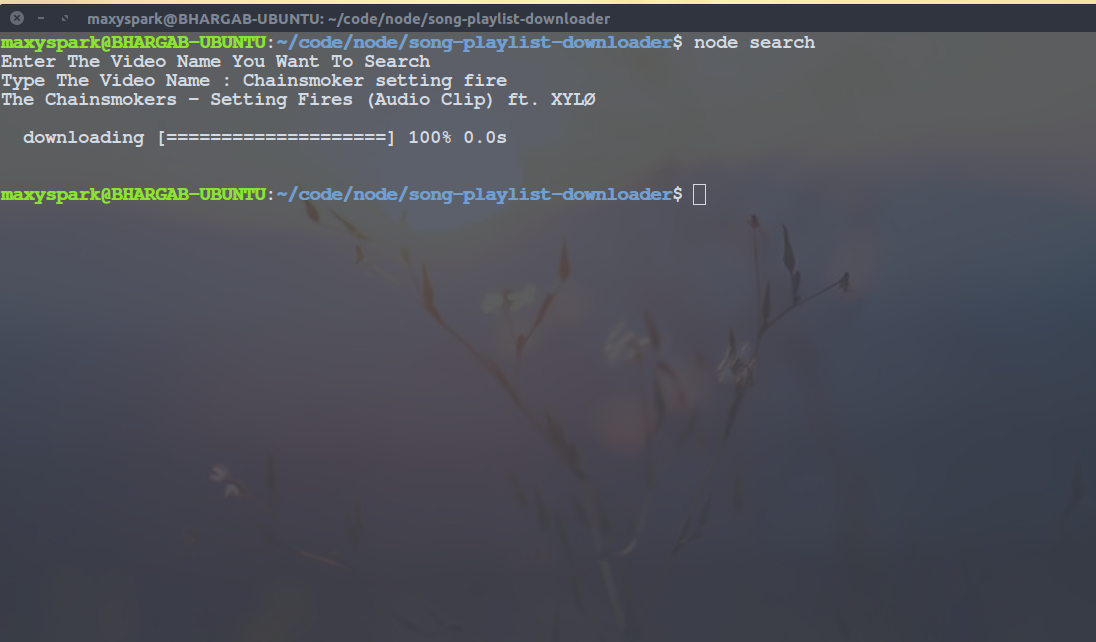
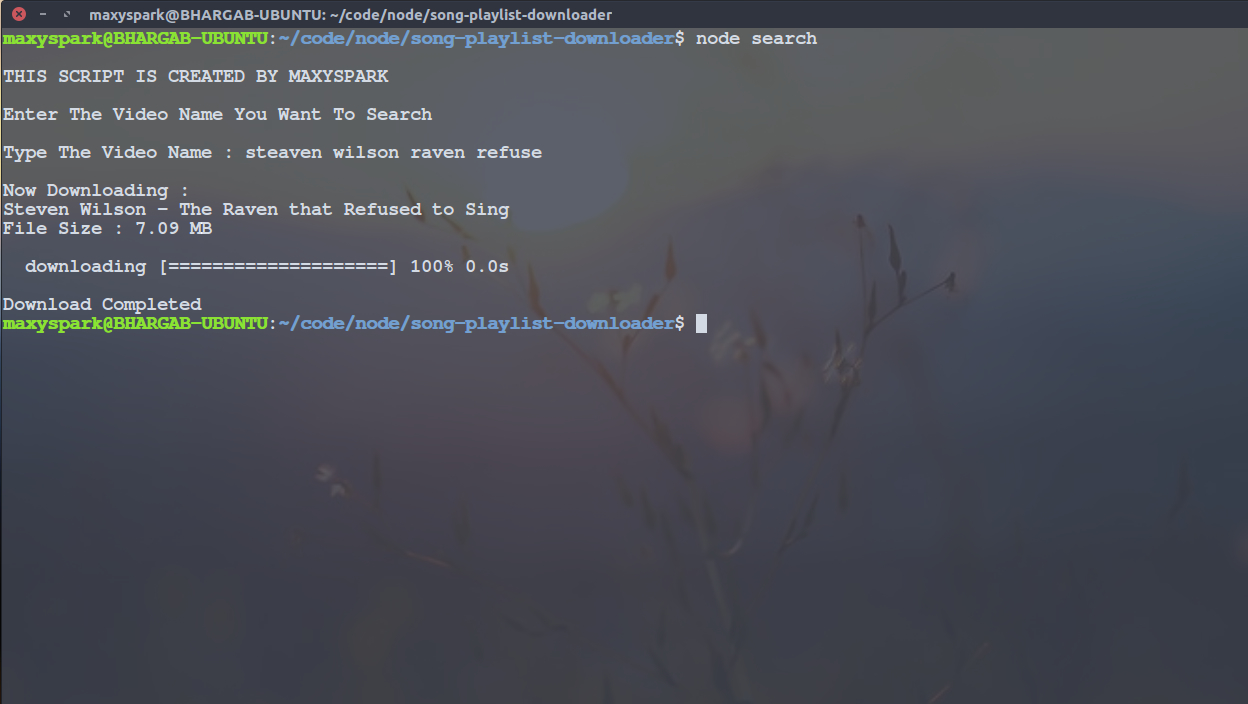
added file size

Changed region(s): [[0.0, 0.0, 1.0, 0.3427], [0.0, 0.3738, 0.5894, 0.4673]]

diff --git a/search.js b/search.js
@@ -5,7 +5,7 @@ var cheerio = require('cheerio');
 var fs = require('fs');
 var readlineSync = require('readline-sync');
 var searchItem,searchUrl;
-console.log("Enter The Video Name You Want To Search");
+console.log("Enter The Video Name You Want To Search\n");
 searchItem = readlineSync.question('Type The Video Name : ');
 searchItem = searchItem.replace(/ /g, "+");
 // searchUrl = "https://www.youtube.com/results?sp=CAM%253D&q=" + searchItem;
@@ -27,7 +27,7 @@ function getMusic (songUrl,songName) {
                 });
                 var musicUrl = allLinks[allLinks.length - 5];
                 // console.log(musicUrl);
-                console.log(songName);
+                console.log("\nNow Downloading : \n"+songName);
                 var req = request({
                     method: 'GET',
                     uri : musicUrl
@@ -36,7 +36,8 @@ function getMusic (songUrl,songName) {
                 // req.pipe(out);
                 req.on( 'response', function ( res ) {
                     var len = parseInt(res.headers['content-length'], 10);
-                
+                    var size = (len/1024)/1024;
+                    console.log("File Size : "+parseFloat(size).toFixed(2)+" MB");
                     console.log();
                     var bar = new ProgressBar('  downloading [:bar] :percent :etas', {
                         complete: '=',
@@ -50,7 +51,7 @@ function getMusic (songUrl,songName) {
                     });
                     
                     res.on('end', function () {
-                        console.log('\n');
+                        console.log("\nDownload Completed");
                     });
                 });
             }

diff --git a/app.js b/app.js
@@ -48,7 +48,7 @@ function getMusic (songUrl,songName,songList) {
                 });
                 var musicUrl = allLinks[allLinks.length - 5];
                 // console.log(musicUrl);
-                console.log('\n'+songName);
+               console.log("\nNow Downloading : "+songName);
                 var req = request({
                     method: 'GET',
                     uri : musicUrl
@@ -57,8 +57,9 @@ function getMusic (songUrl,songName,songList) {
                 // req.pipe(out);
                 req.on( 'response', function ( res ) {
                     var len = parseInt(res.headers['content-length'], 10);
-                
-                    // console.log();
+                    var size = (len/1024)/1024;
+                    console.log("File Size : "+parseFloat(size).toFixed(2)+" MB");
+                    console.log();
                     var bar = new ProgressBar('  downloading [:bar] :percent :etas', {
                         complete: '=',
                         incomplete: ' ',
@@ -78,7 +79,9 @@ function getMusic (songUrl,songName,songList) {
                             // console.log(count);
                             if(count<songList.length) {
                                 download(songList[count],songList);  
-                            } 
+                            } else {
+                                console.log("\nDownload completed");
+                            }
                         }
                     });
                 });
